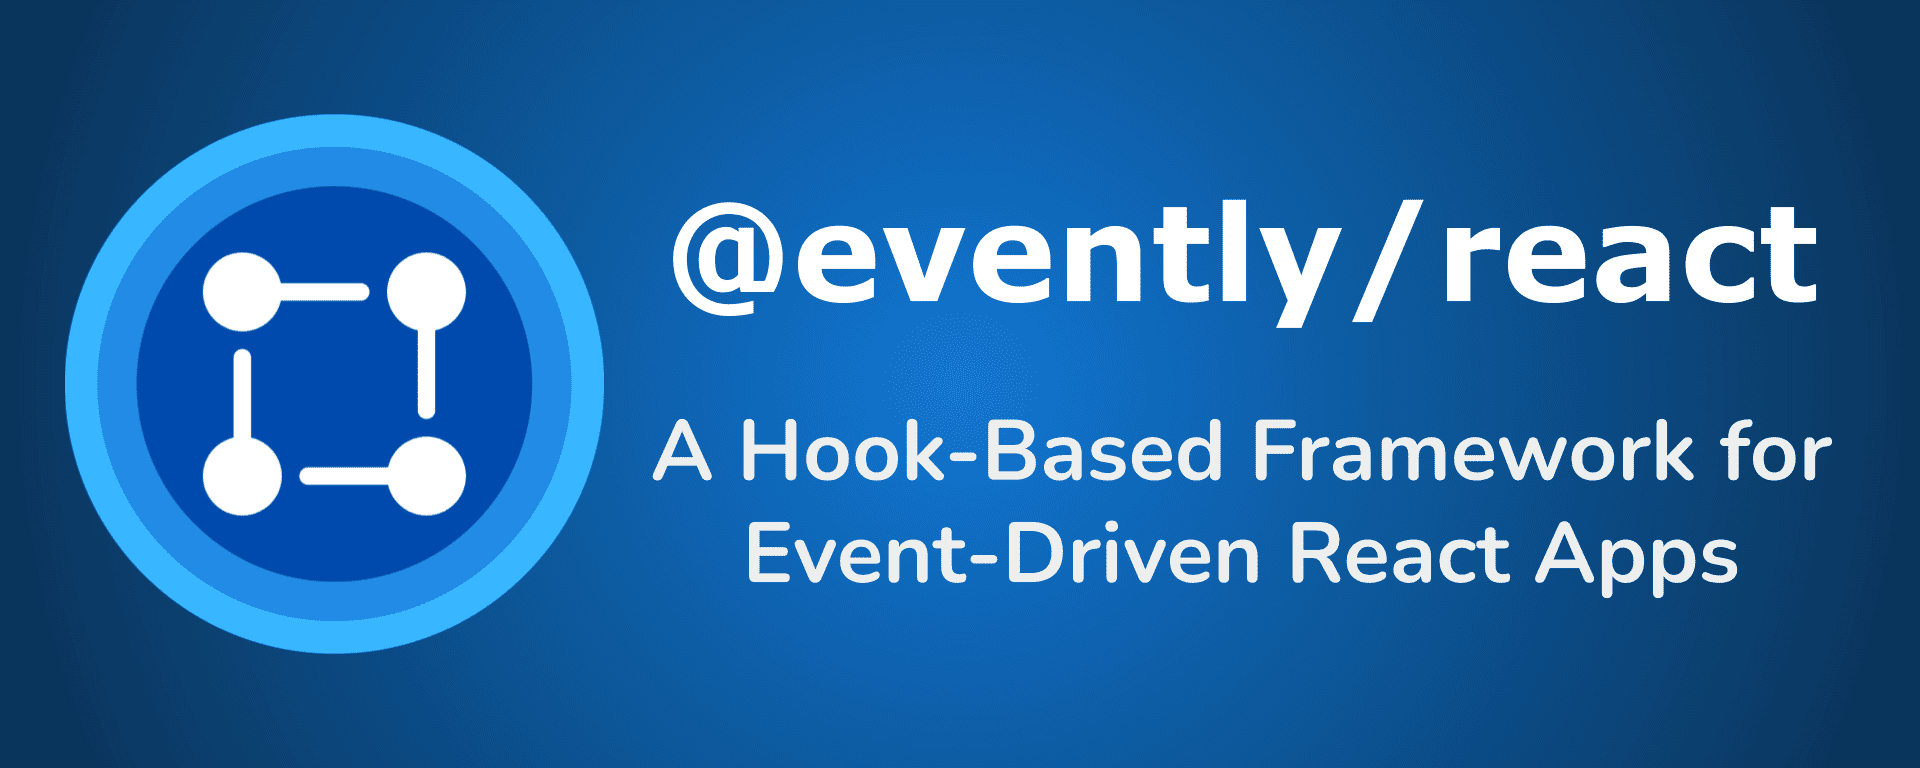
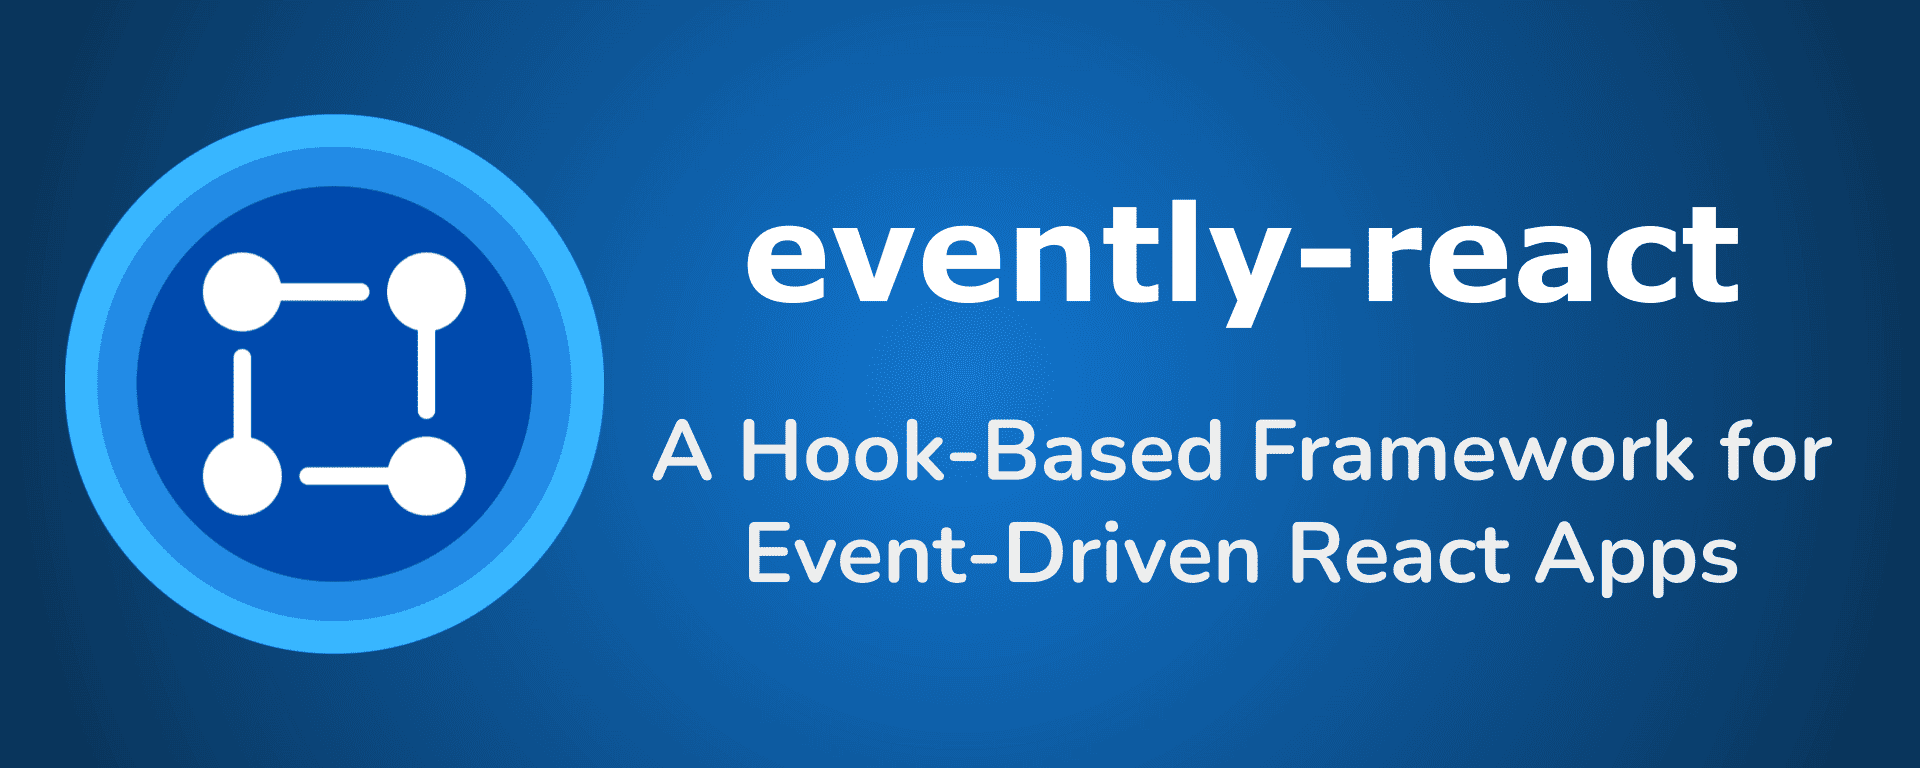
feat: package renaming

Changed region(s): [[0.3438, 0.25, 0.9688, 0.5625]]

diff --git a/index.html b/index.html
@@ -3,7 +3,7 @@
   <head>
     <meta charset="UTF-8" />
     <meta name="viewport" content="width=device-width, initial-scale=1.0" />
-    <title>@evently/react</title>
+    <title>evently-react</title>
   </head>
   <body>
     <div id="root"></div>

diff --git a/src/constants/index.ts b/src/constants/index.ts
@@ -1,4 +1,4 @@
-export const LOGGER_PREFIX = '[@evently/react]'
+export const LOGGER_PREFIX = '[evently-react]'
 
 export const CacheTTL = 60000
 export const CacheEnabled = true

diff --git a/README.md b/README.md
@@ -1,20 +1,20 @@
 <div align="center">
 
-# @evently/react
+# evently-react
 
 </div>
 
-![npm](https://img.shields.io/npm/v/@evently/react?style=flat-square) ![typescript](https://img.shields.io/badge/TypeScript-Supported-blue?style=flat-square)
+![npm](https://img.shields.io/npm/v/evently-react?style=flat-square) ![typescript](https://img.shields.io/badge/TypeScript-Supported-blue?style=flat-square)
 
 ![Banner](.github/media/title_banner.png)
 
 ## 🎉 Overview
 
-`@evently/react` simplifies event management for React developers. 🚀
+`evently-react` simplifies event management for React developers. 🚀
 
 Whether you're building a small app or a large-scale application, this package offers a clean and simplified design to manage robust and scalable event-driven architectures.
 
-With its **hooks-based API**, `@evently/react` enables seamless event handling while keeping your codebase clean and maintainable.
+With its **hooks-based API**, `evently-react` enables seamless event handling while keeping your codebase clean and maintainable.
 
 Say goodbye to prop drilling and global state chaos and hello to elegant, event-driven designs! 🎯
 
@@ -37,18 +37,18 @@ Say goodbye to prop drilling and global state chaos and hello to elegant, event-
 Install the package using npm or yarn:
 
 ```bash
-npm install @evently/react
+npm install evently-react
 # OR
-yarn add @evently/react
+yarn add evently-react
 ```
 
 ### 2⃣ Quickstart Example
 
-Below is a quick example to get started with `@evently/react`.
+Below is a quick example to get started with `evently-react`.
 
 ```tsx
 import React from 'react'
-import { EventProvider, useEvent, useSubscribe } from '@evently/react'
+import { EventProvider, useEvent, useSubscribe } from 'evently-react'
 
 // Define a publisher component
 const Publisher: React.FC = () => {
@@ -91,7 +91,7 @@ Use the `useEvent` hook to emit events:
 
 ```tsx
 import React from 'react'
-import { useEvent } from '@evently/react'
+import { useEvent } from 'evently-react'
 
 const EmitExample: React.FC = () => {
   const { emitEvent } = useEvent()
@@ -112,7 +112,7 @@ Use the `useSubscribe` hook to listen to events:
 
 ```tsx
 import React from 'react'
-import { useSubscribe } from '@evently/react'
+import { useSubscribe } from 'evently-react'
 
 const SubscribeExample: React.FC = () => {
   useSubscribe('exampleEvent', payload => {
@@ -138,7 +138,7 @@ There are 2 types of middlewares supported: Global and Event-specific.
 #### Global Middleware: `.use()`
 
 ```tsx
-import { useEvent } from '@evently/react'
+import { useEvent } from 'evently-react'
 
 const App = () => {
   const { eventBus } = useEvent()
@@ -178,20 +178,20 @@ useSubscribe('exampleEvent', payload => {
 - 🎯 Use meaningful event names to keep your event flow intuitive.
 - 💾 Middleware can be a powerful way to enforce validation or transformations across events.
 - ⚙ Use in-memory caching to ensure real-time updates for dynamic UIs.
-- 🧩 Combine `@evently/react` with React context or Redux for hybrid state/event management solutions.
+- 🧩 Combine `evently-react` with React context or Redux for hybrid state/event management solutions.
 - 📦 Explore lazy-loaded modules to reduce initial app load while still utilizing events.
 
 ---
 
 ## 📝 FAQs
 
-### 1⃣ What is a real-world use case for `@evently/react`?
+### 1⃣ What is a real-world use case for `evently-react`?
 
 - **Cross-Component Communication**: Emit an event in one component and listen in another without prop drilling.
 - **Global Notifications**: Show toast notifications across your app.
 - **Dynamic Data Updates**: Trigger real-time UI updates based on backend events.
 
-### 2⃣ Can I use `@evently/react` in non-React environments?
+### 2⃣ Can I use `evently-react` in non-React environments?
 
 - **Yes!** You can use the exported `EventBus` class instance to integrate event-based communication in non-React environments. All methods like `emit`, `subscribe`, and middleware support are fully available.
 
